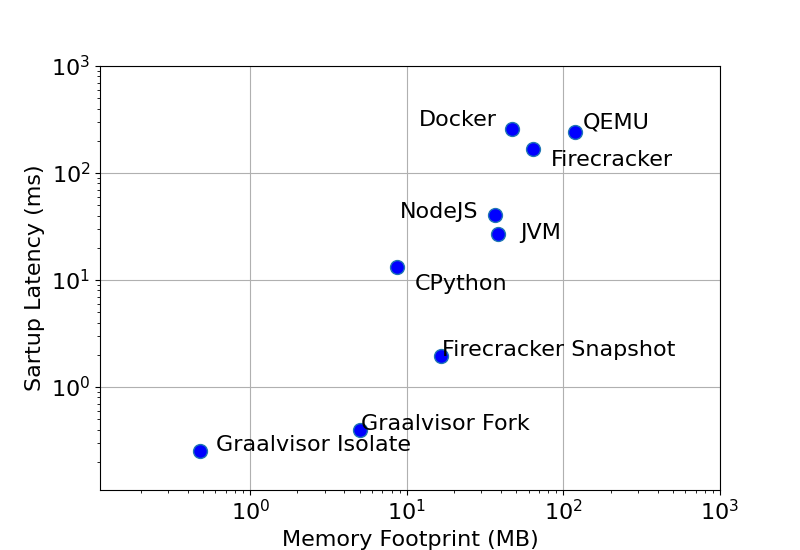
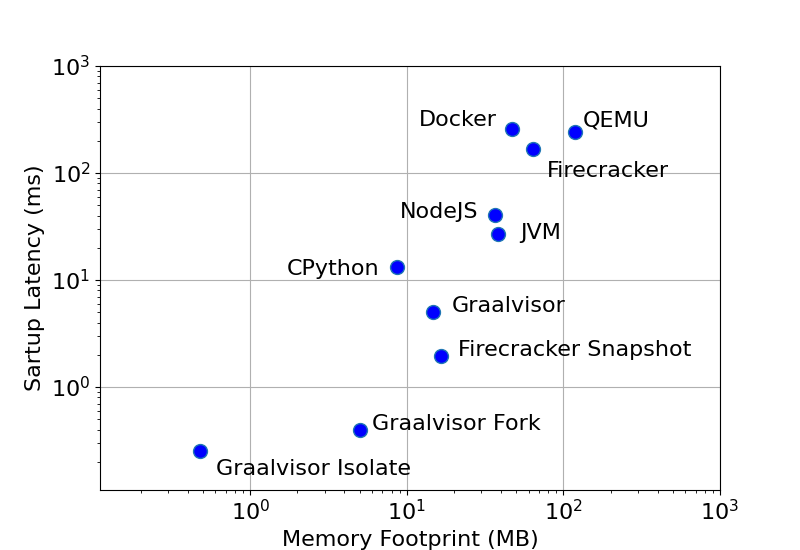
Adding graalvisor virtualization benchmark.

diff --git a/plots/backups-plots/virtualization/virtualization-performance.py b/plots/backups-plots/virtualization/virtualization-performance.py
@@ -3,9 +3,9 @@
 import matplotlib
 from matplotlib import pyplot as plt
 
-# Isolate, Fork, Snapshot, CPython, V8, JVM, Firacracker, Docker, Qemu
-x =    [0.48, 5.0, 16.61, 8.72, 36.56, 38.32, 63.54, 46.95, 118.54] # Memory
-y =    [0.25, 0.4, 1.94, 13.1, 40.8, 26.9, 166.7, 257.1, 241.7] # Latency
+# Isolate, Fork, Snapshot, Graalvisor, CPython, V8, JVM, Firacracker, Docker, Qemu
+x =    [0.48, 5.0, 16.61, 14.74, 8.72, 36.56, 38.32, 63.54, 46.95, 118.54] # Memory
+y =    [0.25, 0.4, 01.94, 05.00, 13.1, 40.80, 26.90, 166.7, 257.1, 241.70] # Latency
 
 matplotlib.rcParams.update({'font.size': 16})
 plt.rcParams["figure.figsize"] = (8, 5.5)
@@ -23,19 +23,22 @@ plt.grid()
 
 plt.plot(x, y, "o", markersize=10, markerfacecolor="blue")
 
-plt.annotate('Graalvisor Isolate', xy=(x[0] + .125, y[0]))
-plt.annotate('Graalvisor Fork', xy=(x[1] + .125, y[1]))
-plt.annotate('Firecracker Snapshot', xy=(x[2] + .125, y[2]))
-plt.annotate('CPython', xy=(x[3] + 2.5 , y[3] - 5))
-plt.annotate('NodeJS', xy=(x[4] - 27.5, y[4] - 2.5))
-plt.annotate('JVM', xy=(x[5] + 15, y[5] - 2.5))
-plt.annotate('Firecracker', xy=(x[6] + 20, y[6] - 50))
-plt.annotate("Docker", xy=(x[7] - 35, y[7] + 20))
-plt.annotate("QEMU", xy=(x[8] + 15, y[8] + 20))
+plt.annotate('Graalvisor Isolate', xy=(x[0] + .125, y[0] - 0.1))
+plt.annotate('Graalvisor Fork', xy=(x[1] + 1, y[1]))
+plt.annotate('Firecracker Snapshot', xy=(x[2] + 4.5, y[2]))
+plt.annotate('Graalvisor', xy=(x[3] + 4.5, y[3]))
+plt.annotate('CPython', xy=(x[4] - 7, y[4] - 2))
+plt.annotate('NodeJS', xy=(x[5] - 27.5, y[5] - 2.5))
+plt.annotate('JVM', xy=(x[6] + 15, y[6] - 2.5))
+plt.annotate('Firecracker', xy=(x[7] + 15, y[7] - 75))
+plt.annotate("Docker", xy=(x[8] - 35, y[8] + 20))
+plt.annotate("QEMU", xy=(x[9] + 15, y[9] + 30))
 
+#plt.axvline(x=125)
+#plt.axhline(y=750)
 #plt.fill_betweenx([0, 200], [0, 0], [100, 200])
 #plt.fill_between([100, 200], [1, 1], [1000, 1000])
 
 plt.savefig('virtualization-performance.pdf')
 plt.savefig('virtualization-performance.png')
-plt.show()
+#plt.show()
